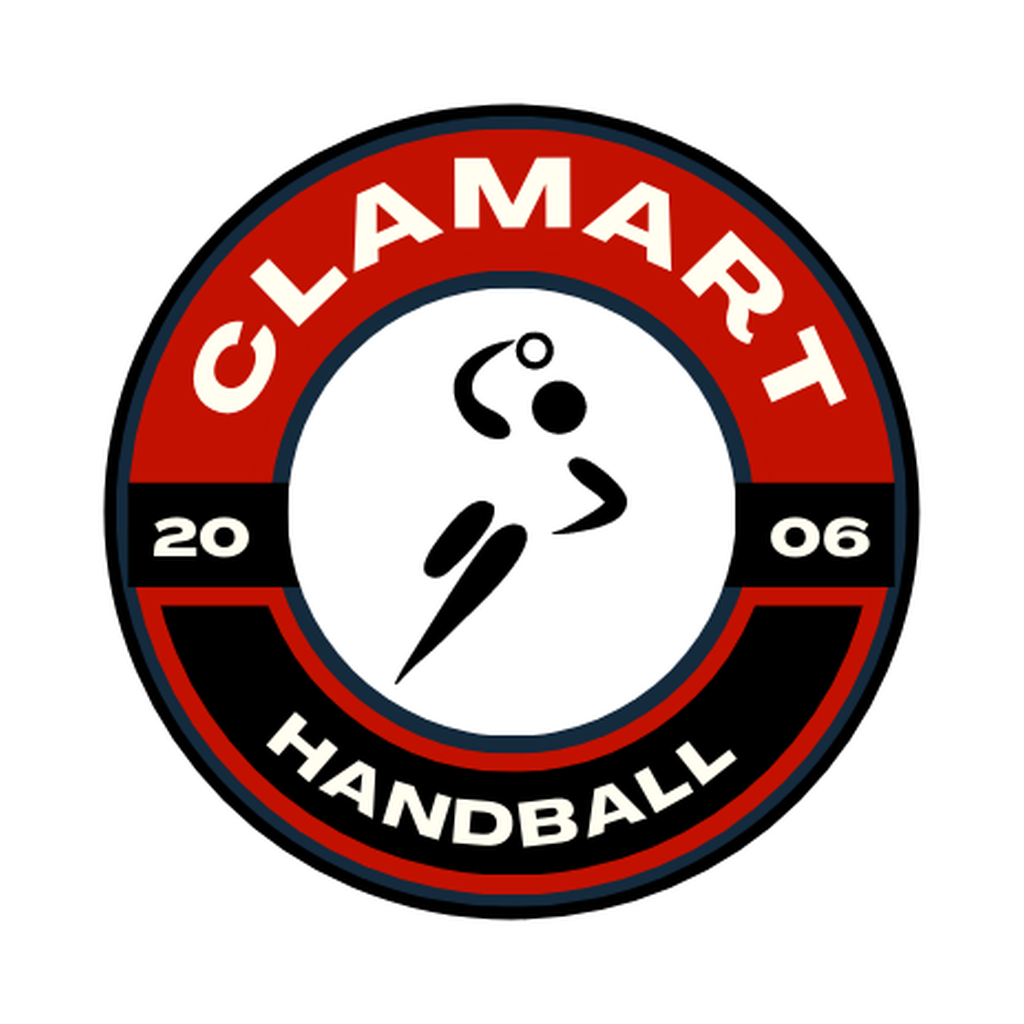
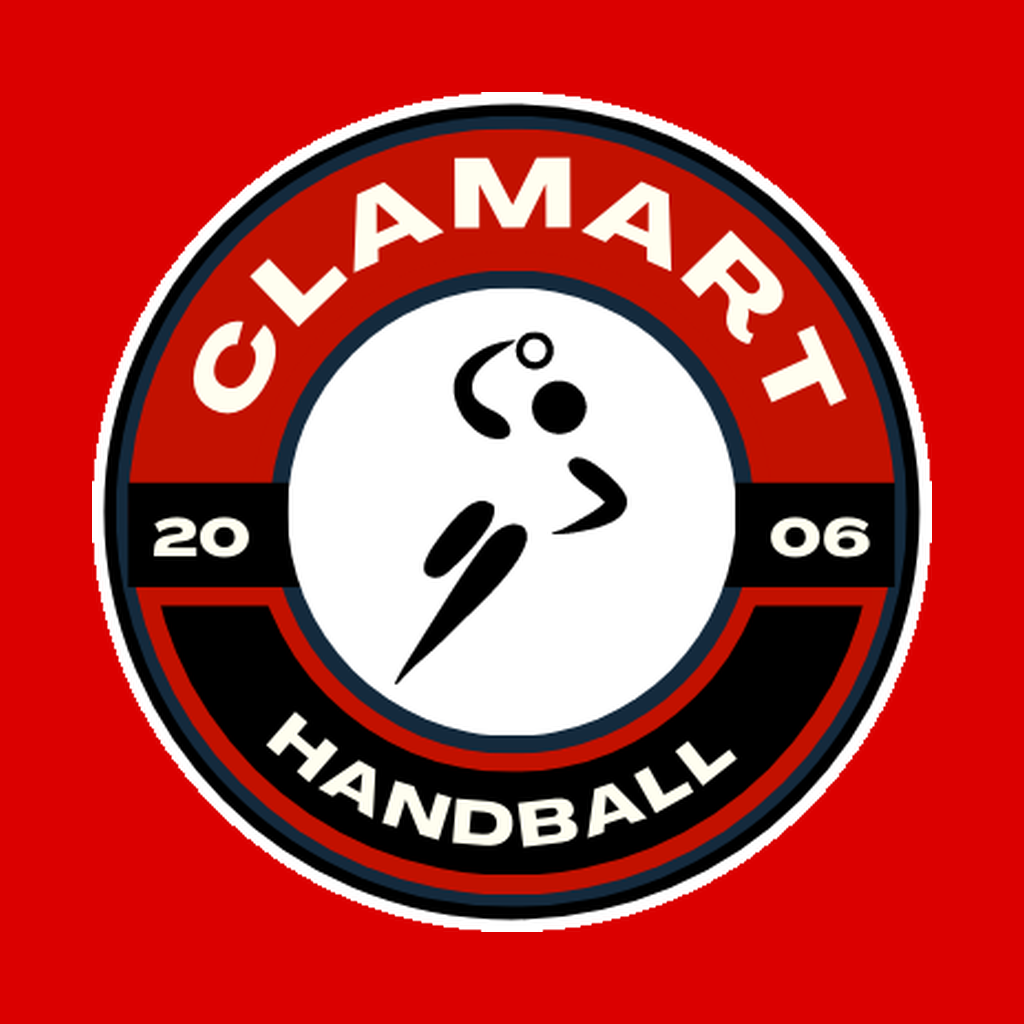
App : icône sur le rouge du club

diff --git a/collecteur/tests/test_icones_app.py b/collecteur/tests/test_icones_app.py
@@ -12,20 +12,20 @@ def test_logo_rond_est_un_disque_transparent_et_stable():
     assert img.tobytes() == icones_app.logo_rond().tobytes()                    # déterministe
 
 
-def test_icone_est_un_ecusson_rond_sur_blanc_sans_transparence():
+def test_icone_est_un_ecusson_rond_sur_rouge_sans_transparence():
     img = icones_app.icone()
     assert img.size == (1024, 1024) and img.mode == "RGB"                       # iOS refuse la transparence
     for coin in ((0, 0), (1023, 0), (0, 1023), (1023, 1023), (60, 60)):
-        assert img.getpixel(coin) == (255, 255, 255)                            # pas de coin rouge
+        assert img.getpixel(coin) == (219, 0, 0)                                # fond rouge du club
     assert img.getpixel((512, 512 - 400)) != (255, 255, 255)                    # l'écusson occupe le centre (bande rouge à 400 du centre)
 
 
-def test_premier_plan_est_un_disque_de_640_centre_sur_blanc_opaque():
+def test_premier_plan_est_un_disque_de_640_centre_sur_rouge_opaque():
     # Opaque : certains lanceurs teintent la couche de fond (anneau rose vu sur l'émulateur), le premier plan la cache.
     img = icones_app.premier_plan()
     assert img.size == (1024, 1024) and img.mode == "RGBA"
     assert img.getchannel("A").getextrema() == (255, 255)
-    assert img.getpixel((10, 10)) == (255, 255, 255, 255) and img.getpixel((192, 192)) == (255, 255, 255, 255)
+    assert img.getpixel((10, 10)) == (219, 0, 0, 255) and img.getpixel((192, 192)) == (219, 0, 0, 255)
     assert img.getpixel((512, 512 - 300)) != (255, 255, 255, 255)               # diamètre 640, centré : zone sûre adaptative
 
 
@@ -38,7 +38,7 @@ def test_pas_de_halo_rose_au_bord_du_disque():
                 assert alpha >= 240 and not (rouge - vert > 40 and vert > 60), (angle, r, (rouge, vert, bleu, alpha))
             x, y = round(512 + (rayon + 3) * math.cos(math.radians(angle))), round(512 + (rayon + 3) * math.sin(math.radians(angle)))
             *_, alpha = pixel = img.getpixel((x, y))
-            assert alpha == 0 or pixel[:3] == (255, 255, 255)                    # hors du disque : transparent, ou blanc (queue du rééchantillonnage, fond de l'icône)
+            assert alpha == 0 or (pixel[0] > 200 and pixel[1] < 40 and pixel[2] < 40)   # hors du disque : le rouge du club (fond de l'icône), jamais rose ni blanc
 
 
 def test_monochrome_est_une_silhouette_blanche_dans_la_zone_sure():

diff --git a/collecteur/icones_app.py b/collecteur/icones_app.py
@@ -2,8 +2,8 @@
 
 Sorties (app/assets/) :
   - logo-rond.png (512 × 512) : l'écusson détouré en disque sur fond transparent ;
-  - icone/icone.png (1024 × 1024) : l'écusson rond sur blanc, sans transparence (icône de l'app, iOS) ;
-  - icone/premier-plan.png (1024 × 1024) : l'écusson rond de 640 de diamètre, centré, sur blanc opaque
+  - icone/icone.png (1024 × 1024) : l'écusson rond sur le rouge du club, sans transparence (icône de l'app, iOS) ;
+  - icone/premier-plan.png (1024 × 1024) : l'écusson rond de 640 de diamètre, centré, sur le rouge du club, opaque
     (premier plan de l'icône adaptative Android : le disque tient dans la zone sûre, que le masque du lanceur ne rogne pas ;
     opaque parce que certains lanceurs teintent la couche de fond, ce qui donnait l'anneau rose) ;
   - icone/monochrome.png (1024 × 1024) : la silhouette blanche du joueur sur fond transparent (icône thématique Android 13).
@@ -26,7 +26,7 @@ PREMIER_PLAN = ASSETS / "icone" / "premier-plan.png"
 MONOCHROME = ASSETS / "icone" / "monochrome.png"
 TAILLE = 512
 TAILLE_ICONE = 1024
-DIAMETRE_ICONE = 840          # écusson de l'icône carrée : une marge blanche autour, le système arrondit les coins
+DIAMETRE_ICONE = 840          # écusson de l'icône carrée : une marge rouge autour, le système arrondit les coins
 DIAMETRE_PREMIER_PLAN = 640   # zone sûre adaptative : disque de 66/108 de la couche, soit ~626 sur 1024
 DIAGONALE_SILHOUETTE = 600    # la silhouette (son rectangle englobant) tient dans la même zone sûre
 RAYON_DISQUE_BLANC = 95       # disque blanc central de l'écusson (rayon ~101 autour de (250, 250)) : la silhouette seule, sans l'anneau marine
@@ -44,12 +44,15 @@ def _ecusson_centre(diametre: int, fond: tuple[int, int, int, int]) -> Image.Ima
     return toile
 
 
+ROUGE_CLUB = (219, 0, 0, 255)  # #DB0000, fond de l'icône
+
+
 def icone() -> Image.Image:
-    return _ecusson_centre(DIAMETRE_ICONE, (255, 255, 255, 255)).convert("RGB")
+    return _ecusson_centre(DIAMETRE_ICONE, ROUGE_CLUB).convert("RGB")
 
 
 def premier_plan() -> Image.Image:
-    return _ecusson_centre(DIAMETRE_PREMIER_PLAN, (255, 255, 255, 255))
+    return _ecusson_centre(DIAMETRE_PREMIER_PLAN, ROUGE_CLUB)
 
 
 def monochrome() -> Image.Image:
